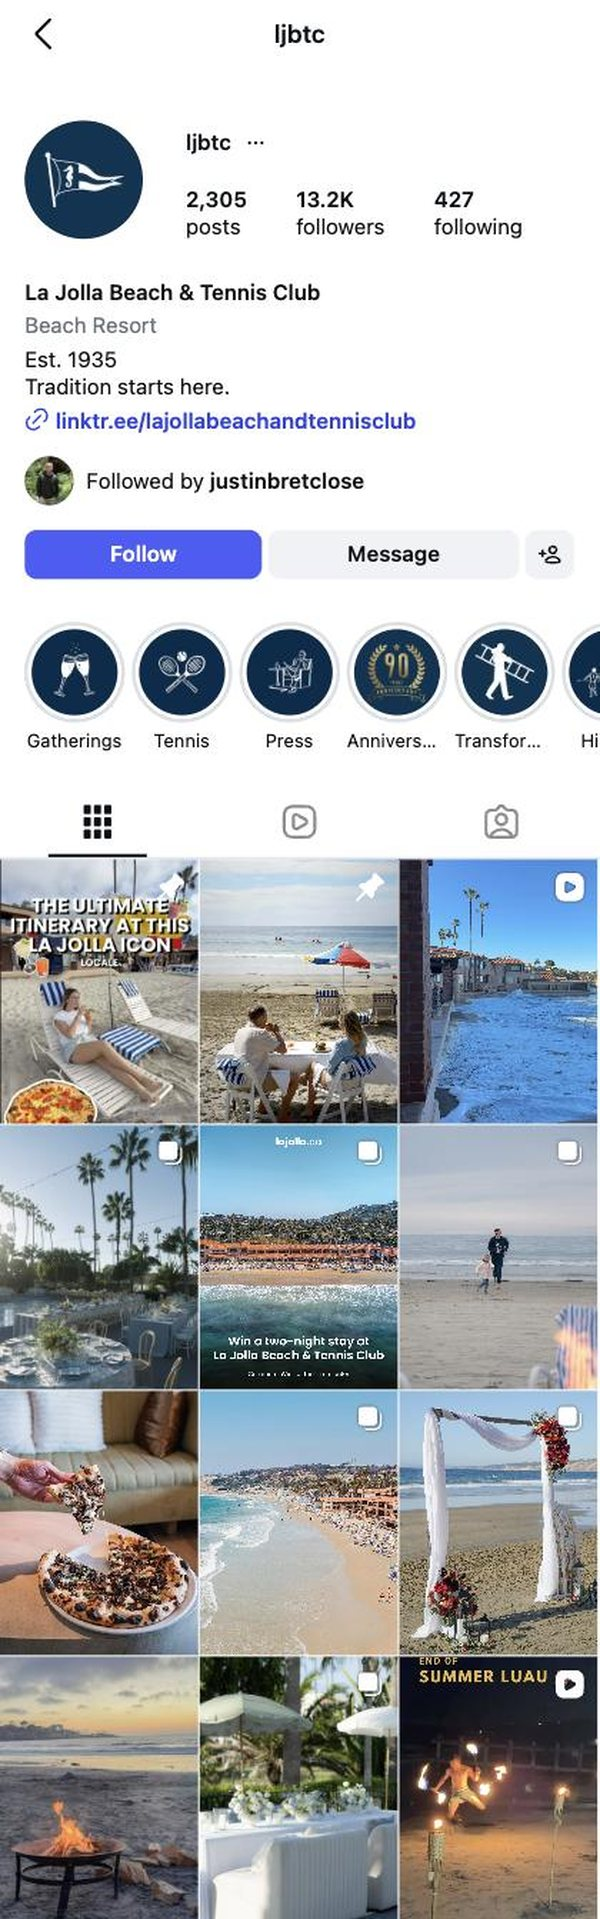
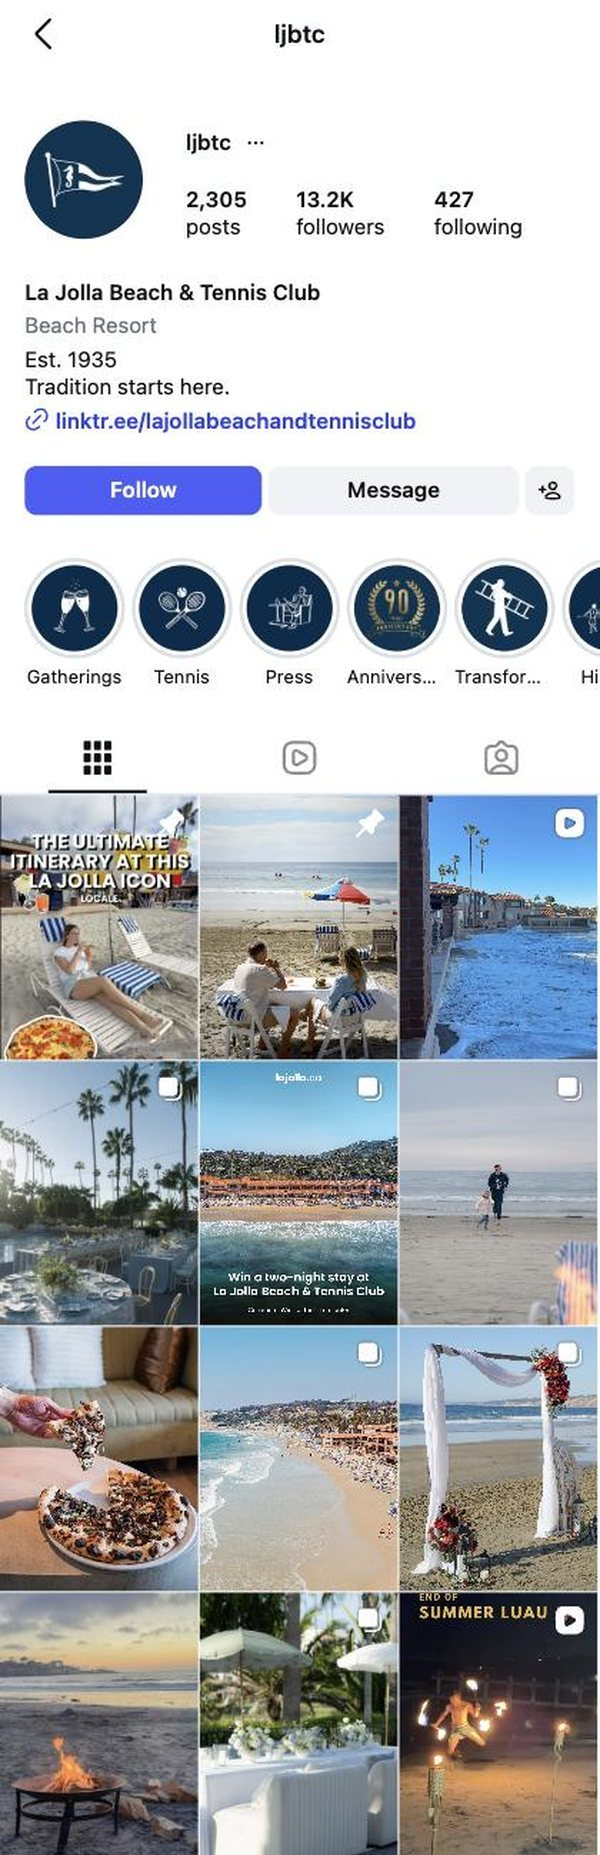
Remove Followed-by row from Instagram feeds
Claude-Session: https://claude.ai/code/session_01VL9vLR4yPQgmeG1y1ZrapK

diff --git a/index.html b/index.html
@@ -584,7 +584,7 @@ const WORK = [
     summary:"Here is a selection of eblasts I’ve created for La Jolla Shores Hotel, La Jolla Beach & Tennis Club and The Marine Room. When we moved from Revinate to Ascent360 and rebranded, I rebuilt these eblast templates from scratch.",
     did:["Rebuilt the eblast templates from scratch after the Revinate → Ascent360 move and the rebrand","Wrote the subject lines, preheaders and copy","Built every email responsive for phone and desktop","Linked offers straight into the booking engine and OpenTable","Segmented the lists and scheduled the sends"],
     links:[] },
-  { cats:["social"], kind:"fan", shape:"wide", growth:[["big","+35%",35,"Total social growth","3 brands"],["","+14.2%",14.2,"Follower growth","@ljbtc"],["","+36.8%",36.8,"Follower growth","@themarineroom"],["","+10.4%",10.4,"Follower growth","@ljshoreshotel"]], screens:[["img/ig-ljbtc.jpg","@ljbtc"],["img/ig-marineroom.jpg","@themarineroom"],["img/ig-shores.jpg","@ljshoreshotel"]],
+  { cats:["social"], kind:"fan", shape:"wide", growth:[["big","+35%",35,"Total social growth","3 brands"],["","+14.2%",14.2,"Follower growth","@ljbtc"],["","+36.8%",36.8,"Follower growth","@themarineroom"],["","+10.4%",10.4,"Follower growth","@ljshoreshotel"]], screens:[["img/ig-ljbtc.jpg?v=2","@ljbtc"],["img/ig-marineroom.jpg?v=2","@themarineroom"],["img/ig-shores.jpg?v=2","@ljshoreshotel"]],
     client:"LJBTC · The Marine Room · La Jolla Shores", title:"Instagram", ran:["Published on","Instagram"], role:"Content, shooting & community", result:"<b>+35%</b> growth · <b>150K+</b> followers managed",
     summary:"Three audiences, three voices, one content calendar, all shot and planned in-house.",
     did:["Plan and schedule content for three accounts","Shoot and edit photo and video in-house","Report reach and follower growth year over year"], links:[] },
